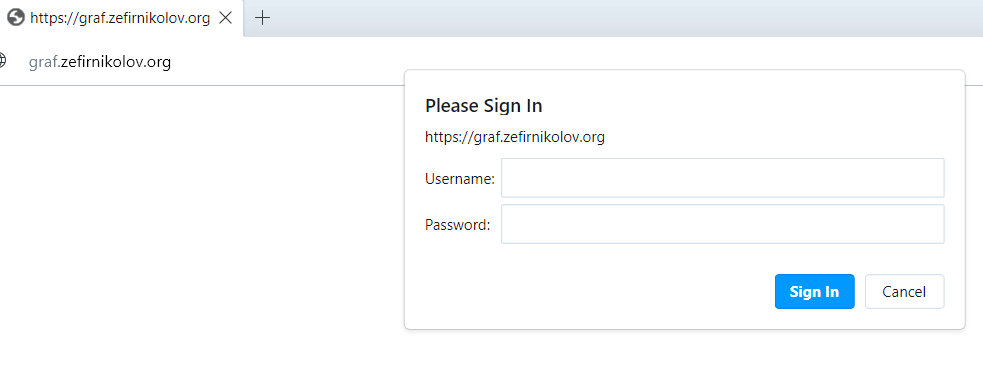
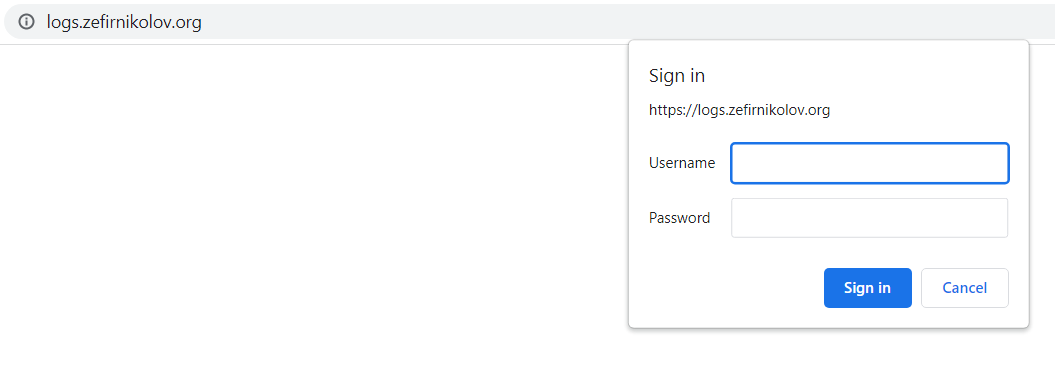
Updated Readme

diff --git a/README.md b/README.md
@@ -5,12 +5,18 @@ It is deployed on **Google Cloud Platform (GCP)** with **Google Kubernetes Engin
 
 ![app](app.png)
 
-The **database part** is standard **MariaDB (MySQL)** database which is downloaded as a container, added the init file and then created as Docker Image and uploaded to **Docker Hub again** (See the **database-development** files). It is deployed with the **db.yaml** file. The Persistence of the cluster is insured with the **volume-claim.yaml** which reserves a **google pd-standard volume** with 7Gi in case of the db’s container or pod failure – see the **volume-claim.yaml** file.
+The **database part** is standard **MariaDB (MySQL)** database which is downloaded as a container, added the init file and then created as Docker Image and uploaded to **Docker Hub again** (See the **database-development** files). It is deployed with the **db.yaml** file. The Persistence of the cluster is insured with the **volume-claim.yaml** which reserves a **google pd-standard volume** with 2Gi in case of the db’s container or pod failure – see the **volume-claim.yaml** file.
 The **web part** is a .php file in which the connection is made with the Database and the table **states** from it is exposed on the frontend. See the **webpart-development folder**. Then it files are containerized with - **Nginx web server** with **Php** as a programming language combined in 1 docker image: **webdevops/php-nginx**. The web files are uploaded and a new docker image is created from the Dockerfile responsible to the deployment on the cluster. 
 Then it is deployed on the cluster with the **web.yaml** file. For persistence 2 replicas are made. 
 
-The front end is exposed to the internet with **Nginx Ingress Controller** and **Let’s Encrypt TLS/SSL** certificates are obtained with **Cert-Manager**. The ingress object to which they are applied is **public-ingress.yaml** in the **nginx-ingress-plus-cert-manager** folder of the repository (all cert-manager files are in that folder too). The front end trough the ingress controller’s load balancer (and my Domains management) is obtaining the DNSs – **https://zefirnikolov.org** and **https://www.zefirnikolov.org**
+The front end is exposed to the internet with **Nginx Ingress Controller** and **Let’s Encrypt TLS/SSL** certificates are obtained with **Cert-Manager**. The ingress object to which they are applied is **public-ingress-production.yaml** in the **nginx-ingress-plus-cert-manager** folder of the repository (all cert-manager files are in that folder too). The front end trough the ingress controller’s load balancer (and my Domains management) is obtaining the DNSs – **https://zefirnikolov.org** and **https://www.zefirnikolov.org**
 
-Also another ingress object is created and applied to the ingress – **private-ingress.yaml** in the **nginx-ingress-plus-cert-manager** folder of the repository – which applies a **Basic Authentication** and is made only for private entries – **New certificates** are obtained with the Cert Manager and a **new subdomain** is obtained to the DNS for this private entry: **https://graf.zefirnikolov.org**. It requires a username and a password for entry on the DNS – when it’s entered it’s showing just a dummy frontend from my other project. This private entrance is deployed on the cluster as **private-deployment.yaml** .
+![domain](domain.png)
+
+Also another ingress object is created and applied to the ingress – **private-ingress-production.yaml** in the **nginx-ingress-plus-cert-manager** folder of the repository – which applies a **Basic Authentication** and is made only for private entries – **New certificates** are obtained with the Cert Manager and a **new subdomain** is obtained to the DNS for this private entry: **https://logs.zefirnikolov.org**. It requires a username and a password for entry on the DNS.
 
 ![pic-private](pic-private.png)
+
+When enetered with the correct username and password - It's opening the **Kibana** UI - part of the **monitoring** of the cluster. The monitoring is separate **HELM INSTALLATIONS** of **Elastic Stack** - On the Cluster it's installed: **Elasticsearch**, **Kibana** and **Beats** - **Filebeat**, **Metricbeat** and **Heartbeat**. The files and **values.yaml** of all Elastic stack helm installations are in the **elk-helm-install** folder of the repository.
+
+![kibana](kibana.png)
